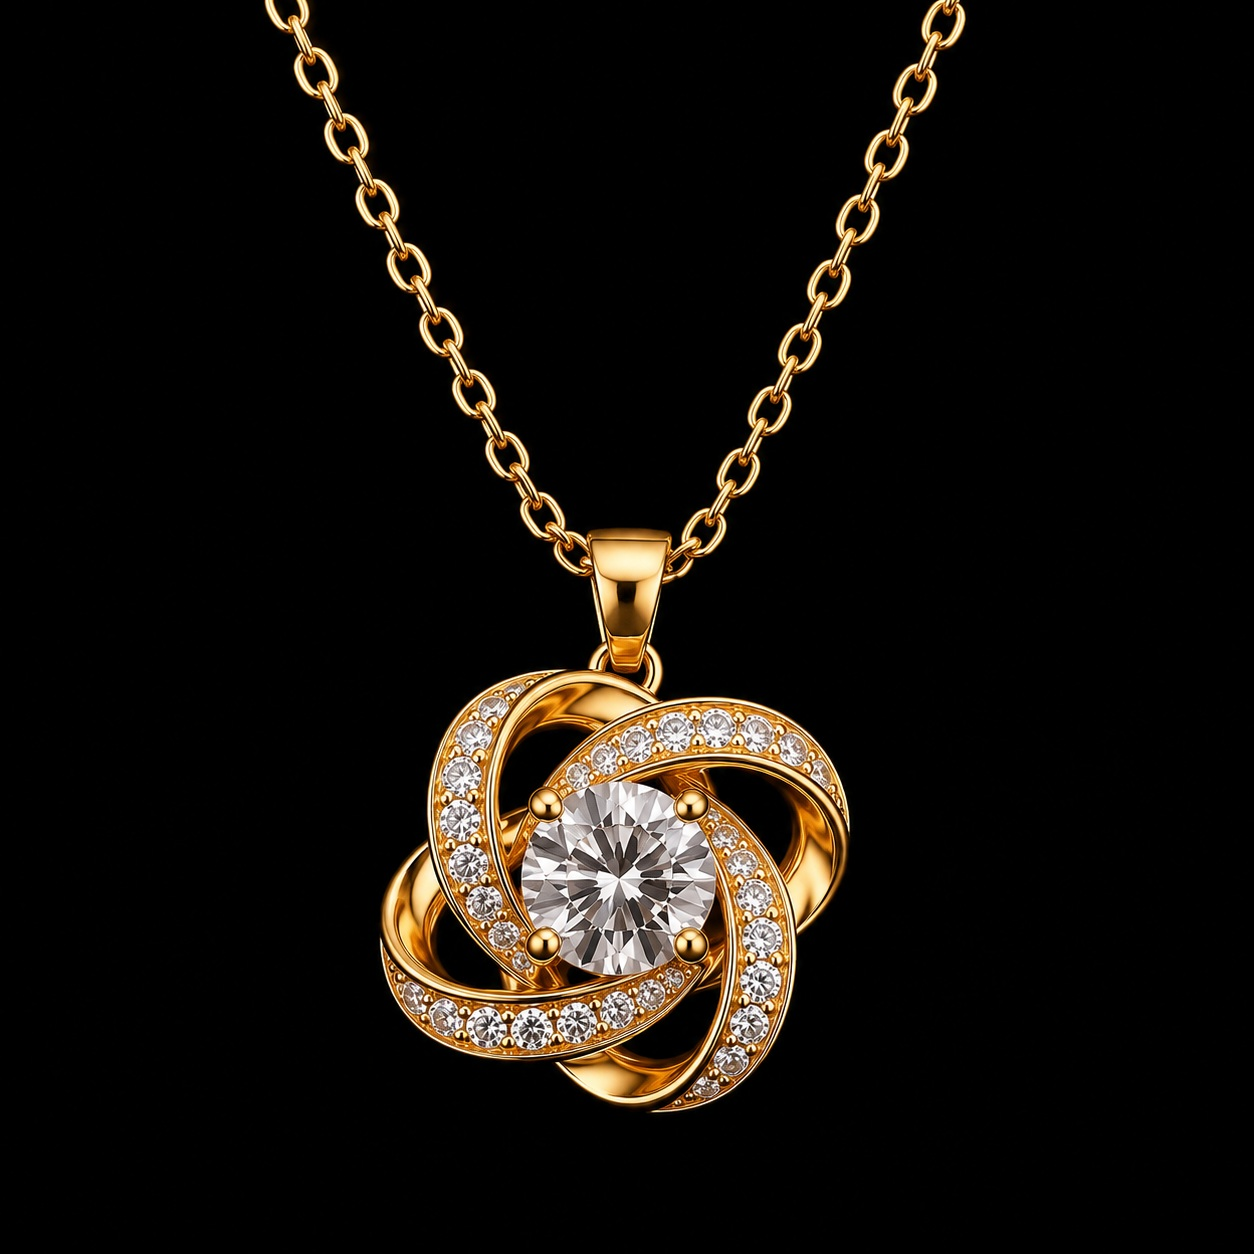
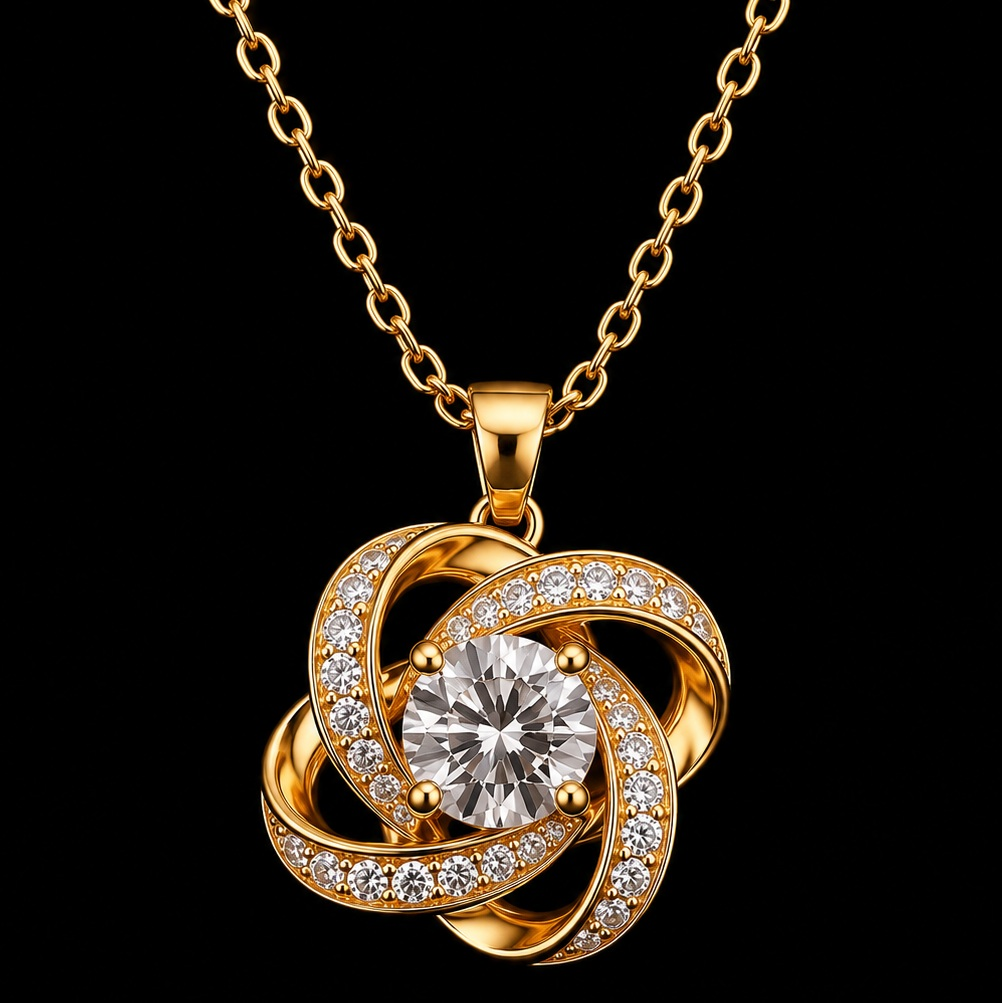
Refine finish configurator: bigger pendant, real-ready CTA
- Re-crop both studio product photos to bring the pendant forward
  as the hero (~25% larger in frame) while trimming the dramatic top
  chain sweep, pendant fully uncropped and centered, pure black ground
- Drop the "Coming Soon" text-swap on the CTA — it now silently
  captures { finish, message } on every click via a single
  GIFT_PREVIEW_URL constant, ready to redirect once that destination
  exists, with no dead-end or placeholder state in the meantime
- Remove the now-unused .btn-gold:disabled rule that only existed to
  support the removed placeholder behavior

Changed region(s): [[0.2166, 0.0, 0.8044, 0.989]]

diff --git a/zaviqu-homepage/js/main.js b/zaviqu-homepage/js/main.js
@@ -90,19 +90,19 @@ if (configureSection) {
     updateCount();
   }
 
+  // Set this once the gift-preview step or Shopify product page exists.
+  // Until then, the CTA still captures the config on every click so nothing
+  // needs to change here beyond pointing this at a real URL.
+  const GIFT_PREVIEW_URL = null;
+
   if (previewBtn) {
     previewBtn.addEventListener('click', () => {
-      const message = messageField ? messageField.value.trim() : '';
-      const params = new URLSearchParams({ finish: selectedFinish, message });
-      sessionStorage.setItem('zaviquGiftConfig', params.toString());
+      const config = { finish: selectedFinish, message: messageField ? messageField.value.trim() : '' };
+      sessionStorage.setItem('zaviquGiftConfig', JSON.stringify(config));
 
-      const originalLabel = previewBtn.textContent;
-      previewBtn.textContent = 'Saved — Preview Coming Soon';
-      previewBtn.disabled = true;
-      setTimeout(() => {
-        previewBtn.textContent = originalLabel;
-        previewBtn.disabled = false;
-      }, 1800);
+      if (GIFT_PREVIEW_URL) {
+        window.location.href = `${GIFT_PREVIEW_URL}?${new URLSearchParams(config)}`;
+      }
     });
   }
 }

diff --git a/zaviqu-homepage/css/style.css b/zaviqu-homepage/css/style.css
@@ -172,13 +172,6 @@ a { color: inherit; text-decoration: none; }
   color: var(--black);
 }
 
-.btn-gold:disabled {
-  border-color: var(--gold-dim);
-  color: var(--gold-dim);
-  background: none;
-  cursor: default;
-}
-
 .hero__media-col {
   flex: 1 1 58%;
   position: relative;
